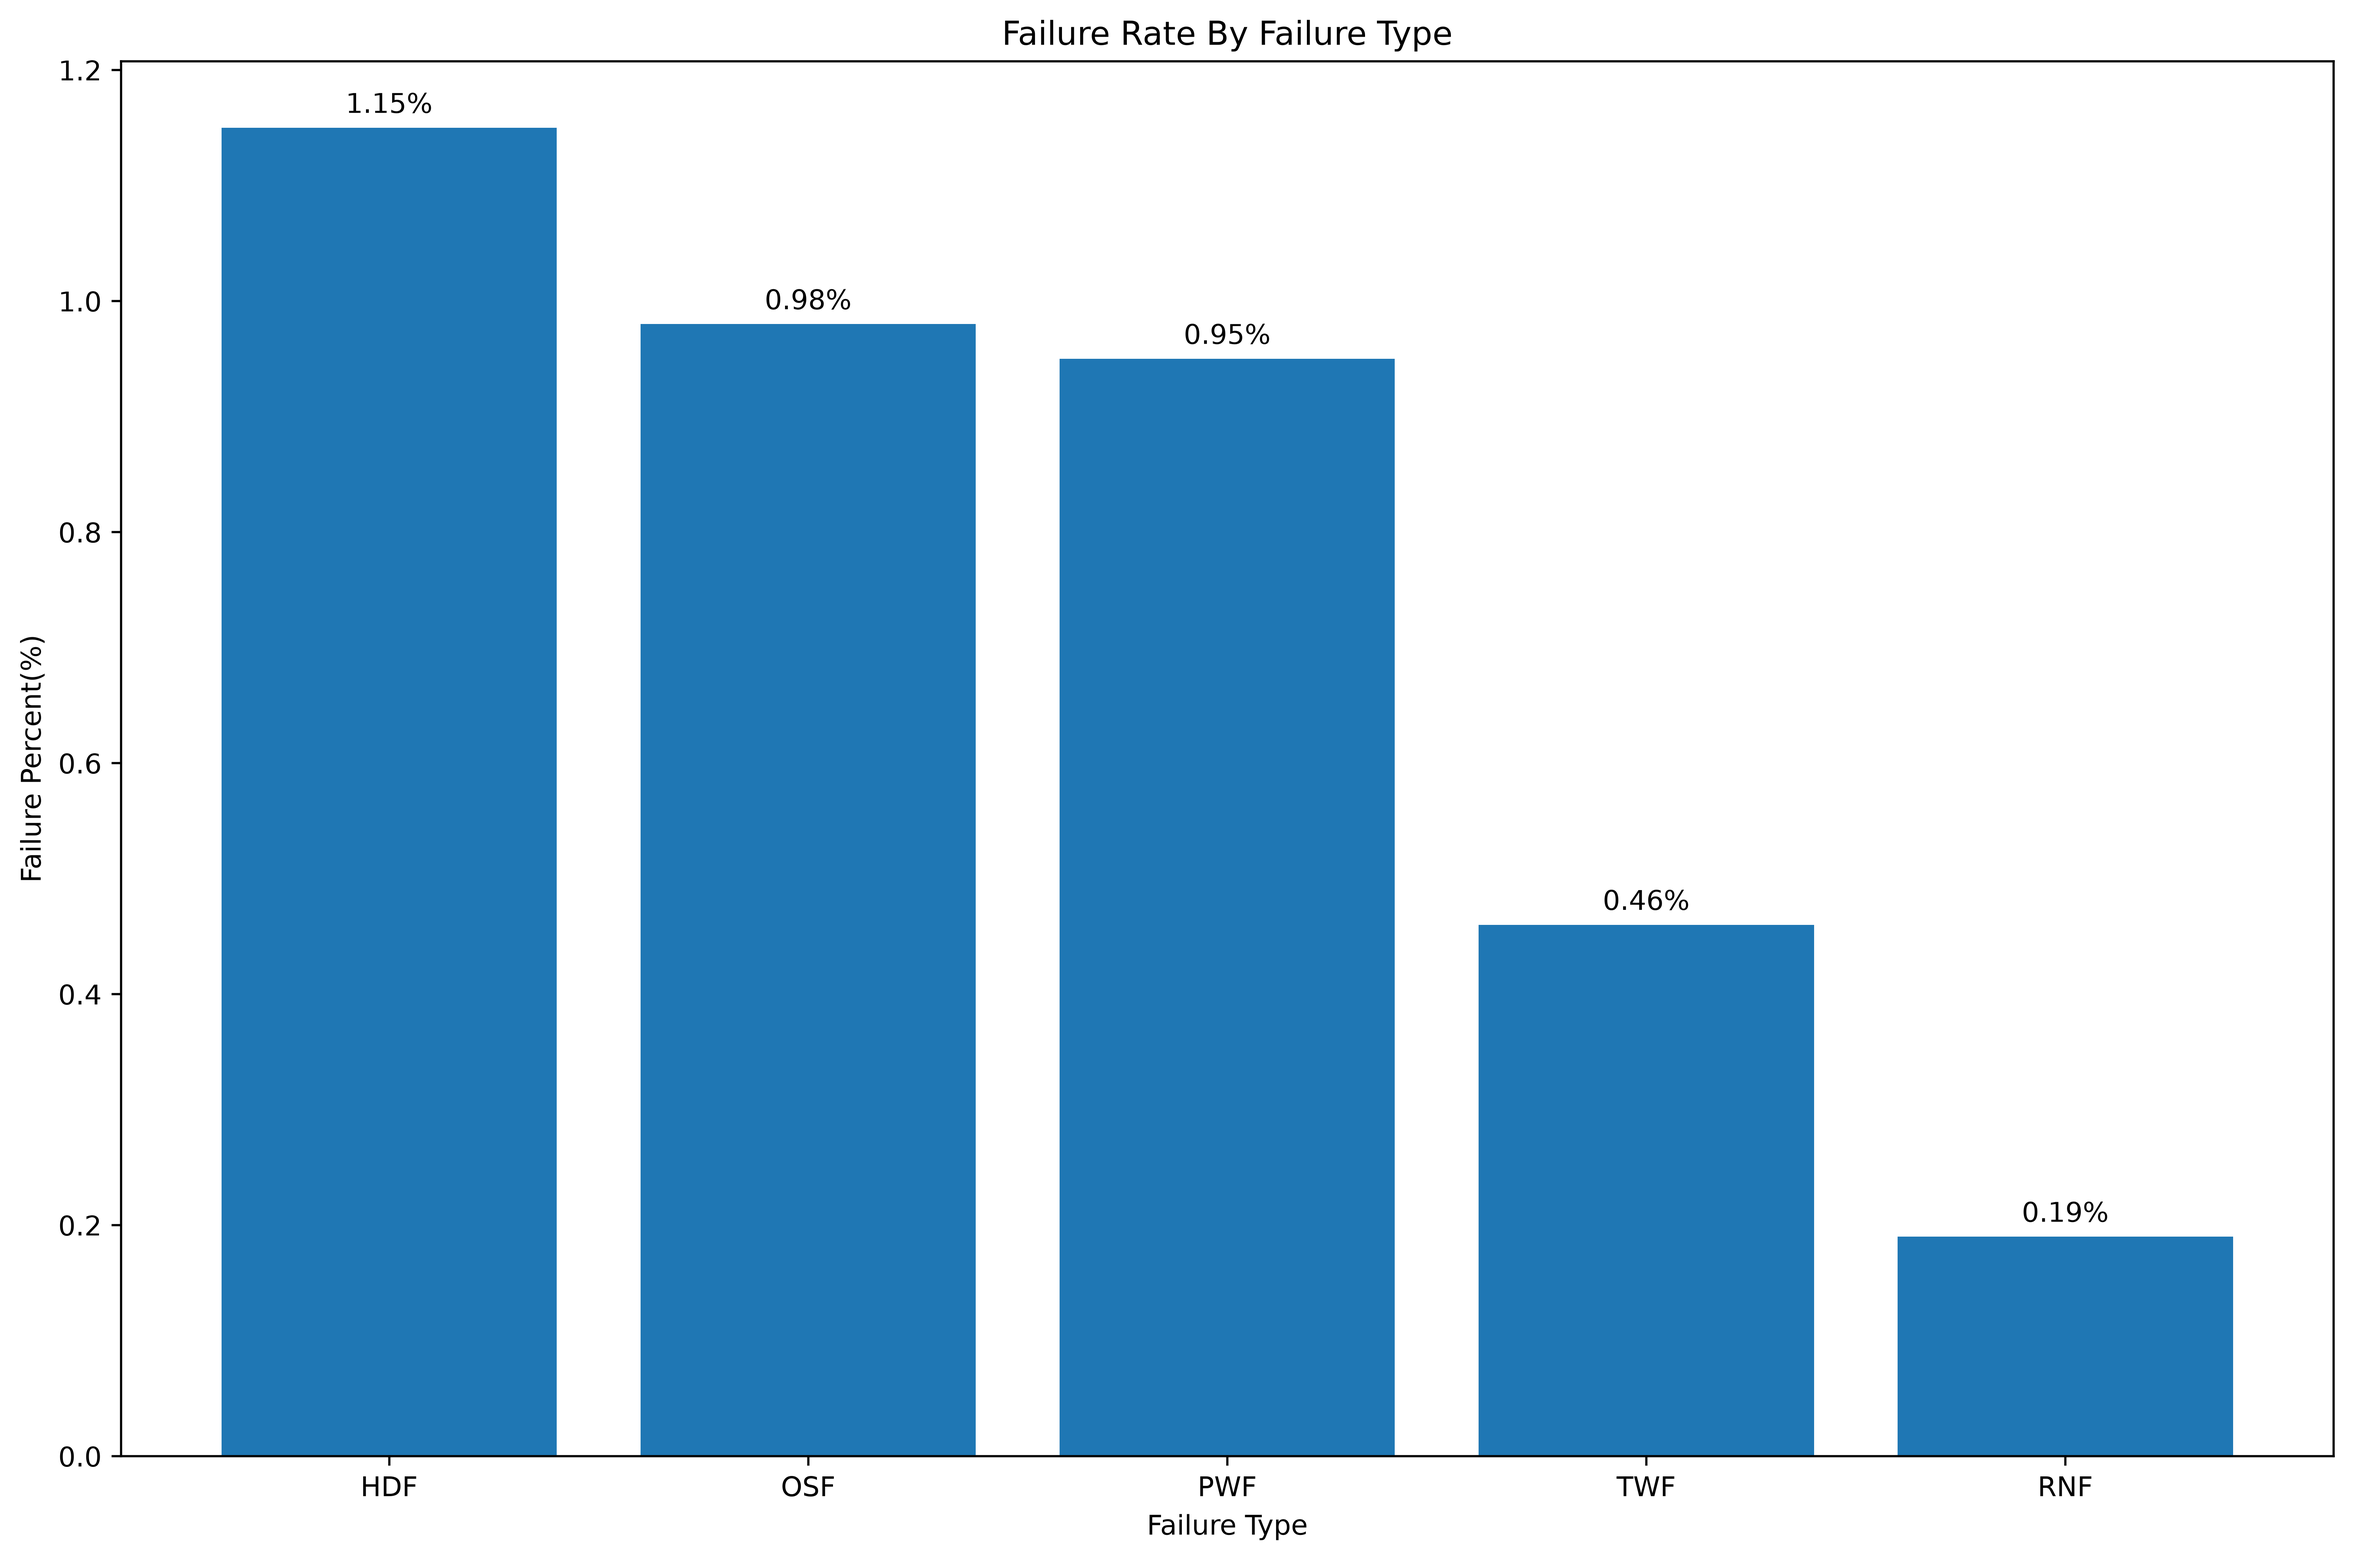
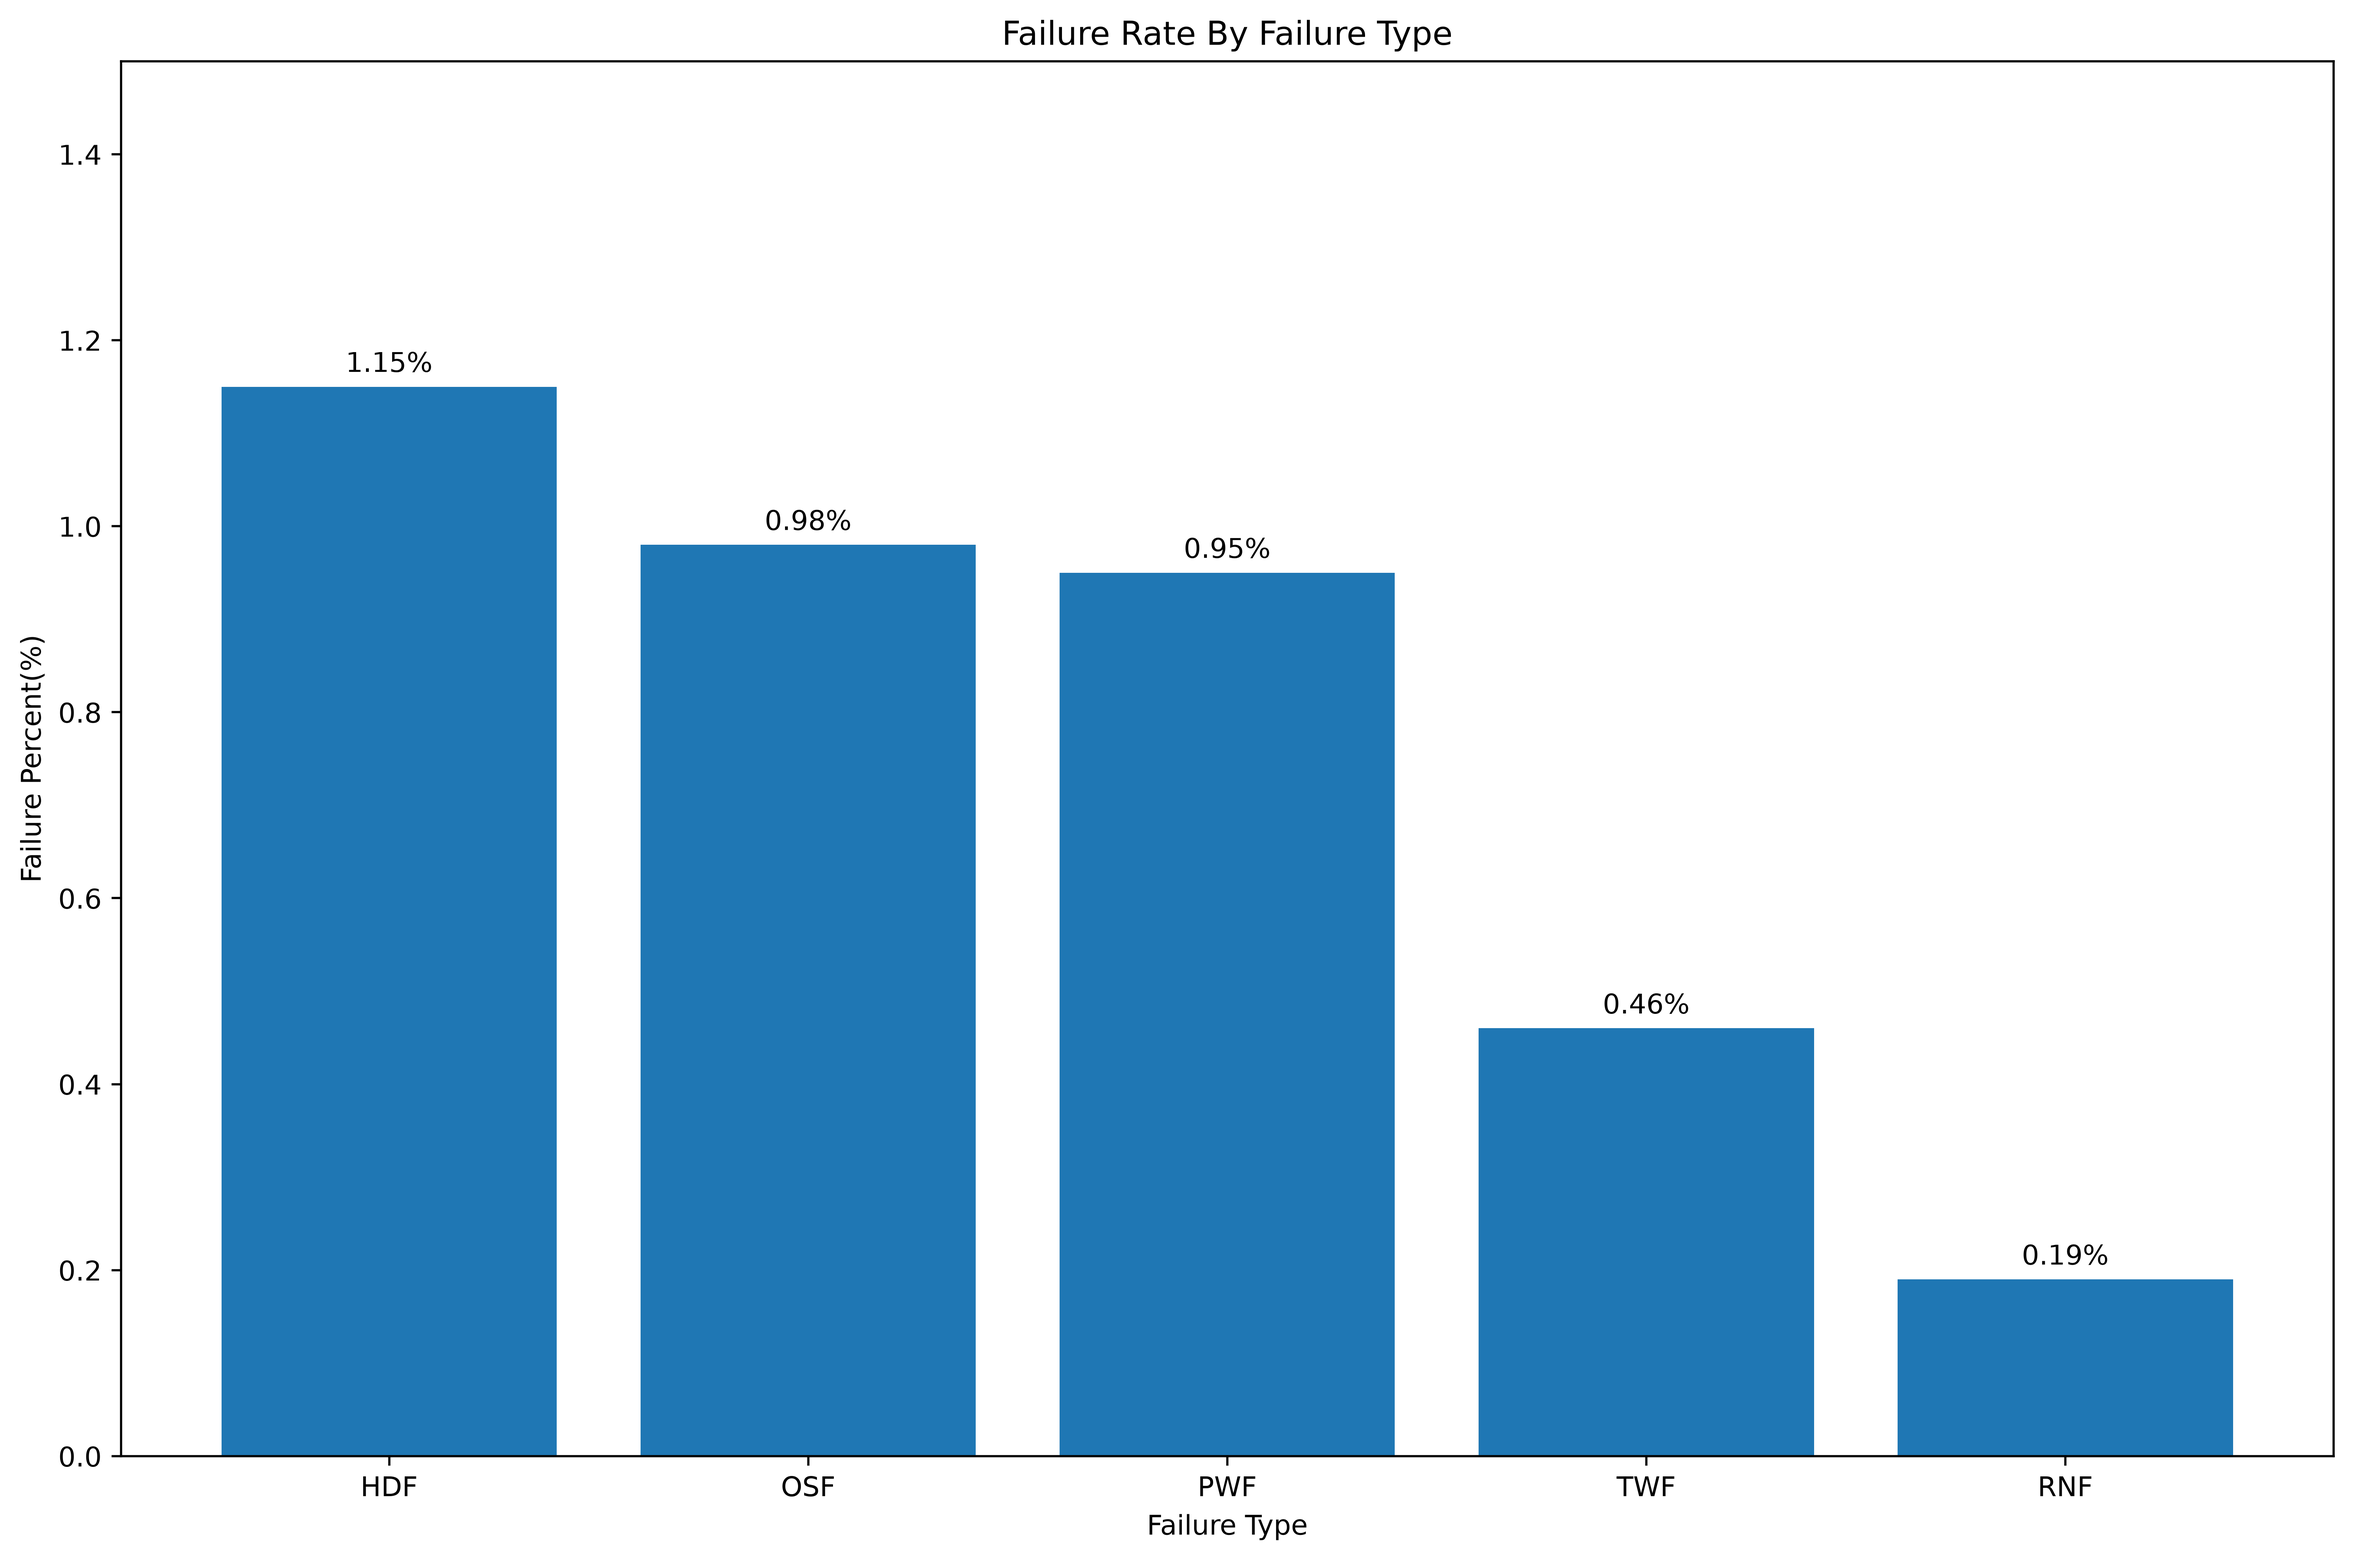
fix: preserve separate plotting scripts

Changed region(s): [[0.0933, 0.0623, 0.5911, 0.374], [0.6222, 0.5611, 0.7777, 0.6858], [0.8088, 0.7793, 0.9644, 0.8416]]

diff --git a/plot_failure_rate.py b/plot_failure_rate.py
@@ -27,7 +27,7 @@ result_df = pd.read_csv(csv_path)
 fig, ax = plt.subplots(figsize=(12, 8))
 bars=ax.bar(result_df["failure_type"], result_df["failure_percent"])
 ax.bar_label(bars,fmt="%.2f%%", padding=3)
-ax.set_ylim=(0,1.5)
+ax.set_ylim(0,1.5)
 ax.set_xlabel("Failure Type")
 ax.set_ylabel("Failure Percent(%)")
 ax.set_title("Failure Rate By Failure Type")
